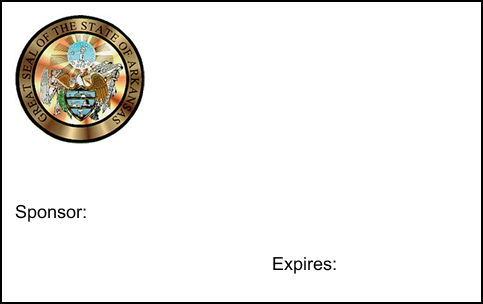
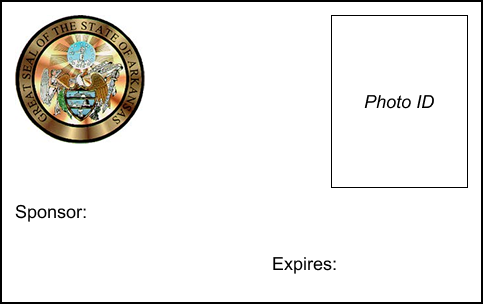
moved pocked card info and updated templates

Changed region(s): [[0.7453, 0.2961, 0.9006, 0.3553], [0.6832, 0.5921, 0.9627, 0.6217], [0.6832, 0.0296, 0.9627, 0.0592]]

diff --git a/application-type.html b/application-type.html
@@ -344,40 +344,6 @@
               </div>
             </fieldset>
 
-            <div id="rich-text-5bb" style="margin-left: 6rem; margin-top: 1.5rem; display: none;">
-              <div class="usa-form-group" style="margin-bottom: 20px;">
-                <label class="usa-label" for="pocket-photo-upload-instructions">Document Upload Instructions <span class="field-required">Required</span></label>
-                <div class="mock-editor">
-                  <div class="mock-editor__toolbar">
-                    <button type="button" class="mock-editor__btn" title="Bold"><strong>B</strong></button>
-                    <button type="button" class="mock-editor__btn" title="Italic"><em>I</em></button>
-                    <button type="button" class="mock-editor__btn" title="Underline"><u>U</u></button>
-                    <span class="mock-editor__separator">|</span>
-                    <button type="button" class="mock-editor__btn" title="Numbered List">1.</button>
-                    <button type="button" class="mock-editor__btn" title="Bullet List">•</button>
-                    <span class="mock-editor__separator">|</span>
-                    <button type="button" class="mock-editor__btn" title="Link">🔗</button>
-                  </div>
-                  <textarea class="mock-editor__textarea" id="pocket-photo-upload-instructions" name="pocket-photo-upload-instructions" rows="6"></textarea>
-                </div>
-              </div>
-              <div class="usa-form-group">
-                <label class="usa-label" for="pocket-photo-upload-disclaimer">Document Upload Disclaimer <span class="field-required">Required</span></label>
-                <div class="mock-editor">
-                  <div class="mock-editor__toolbar">
-                    <button type="button" class="mock-editor__btn" title="Bold"><strong>B</strong></button>
-                    <button type="button" class="mock-editor__btn" title="Italic"><em>I</em></button>
-                    <button type="button" class="mock-editor__btn" title="Underline"><u>U</u></button>
-                    <span class="mock-editor__separator">|</span>
-                    <button type="button" class="mock-editor__btn" title="Numbered List">1.</button>
-                    <button type="button" class="mock-editor__btn" title="Bullet List">•</button>
-                    <span class="mock-editor__separator">|</span>
-                    <button type="button" class="mock-editor__btn" title="Link">🔗</button>
-                  </div>
-                  <textarea class="mock-editor__textarea" id="pocket-photo-upload-disclaimer" name="pocket-photo-upload-disclaimer" rows="6"></textarea>
-                </div>
-              </div>
-            </div>
           </div>
 
           <div class="section-indicator" data-section="6">
@@ -425,7 +391,6 @@
         toggle('fieldset-5aa', false);
         toggle('fieldset-5bb', false);
         toggle('rich-text-5aa', false);
-        toggle('rich-text-5bb', false);
       }
     });
   });
@@ -453,14 +418,7 @@
       toggle('fieldset-5bb', yes);
       if (!yes) {
         resetRadios('pocket-card-photo');
-        toggle('rich-text-5bb', false);
       }
-    });
-  });
-
-  document.querySelectorAll('input[name="pocket-card-photo"]').forEach(function(r) {
-    r.addEventListener('change', function() {
-      toggle('rich-text-5bb', this.value === 'yes');
     });
   });
 </script>

diff --git a/pocket-card-options.html b/pocket-card-options.html
@@ -165,6 +165,41 @@
                   <img src="assets/pocket card - ipe.png" alt="Pocket Card Detailed template preview" style="max-width: 100%; margin-top: 1rem;">
                 </div>
               </div>
+
+              <div style="margin-top: 2rem;">
+                <div class="usa-form-group" style="margin-bottom: 20px;">
+                  <label class="usa-label" for="pocket-photo-upload-instructions">Pocket Card Upload Instructions <span class="field-required">Required</span></label>
+                  <div class="mock-editor">
+                    <div class="mock-editor__toolbar">
+                      <button type="button" class="mock-editor__btn" title="Bold"><strong>B</strong></button>
+                      <button type="button" class="mock-editor__btn" title="Italic"><em>I</em></button>
+                      <button type="button" class="mock-editor__btn" title="Underline"><u>U</u></button>
+                      <span class="mock-editor__separator">|</span>
+                      <button type="button" class="mock-editor__btn" title="Numbered List">1.</button>
+                      <button type="button" class="mock-editor__btn" title="Bullet List">•</button>
+                      <span class="mock-editor__separator">|</span>
+                      <button type="button" class="mock-editor__btn" title="Link">🔗</button>
+                    </div>
+                    <textarea class="mock-editor__textarea" id="pocket-photo-upload-instructions" name="pocket-photo-upload-instructions" rows="6"></textarea>
+                  </div>
+                </div>
+                <div class="usa-form-group">
+                  <label class="usa-label" for="pocket-photo-upload-disclaimer">Pocket Card Upload Disclaimer <span class="field-required">Required</span></label>
+                  <div class="mock-editor">
+                    <div class="mock-editor__toolbar">
+                      <button type="button" class="mock-editor__btn" title="Bold"><strong>B</strong></button>
+                      <button type="button" class="mock-editor__btn" title="Italic"><em>I</em></button>
+                      <button type="button" class="mock-editor__btn" title="Underline"><u>U</u></button>
+                      <span class="mock-editor__separator">|</span>
+                      <button type="button" class="mock-editor__btn" title="Numbered List">1.</button>
+                      <button type="button" class="mock-editor__btn" title="Bullet List">•</button>
+                      <span class="mock-editor__separator">|</span>
+                      <button type="button" class="mock-editor__btn" title="Link">🔗</button>
+                    </div>
+                    <textarea class="mock-editor__textarea" id="pocket-photo-upload-disclaimer" name="pocket-photo-upload-disclaimer" rows="6"></textarea>
+                  </div>
+                </div>
+              </div>
             </div>
           </div>
 
